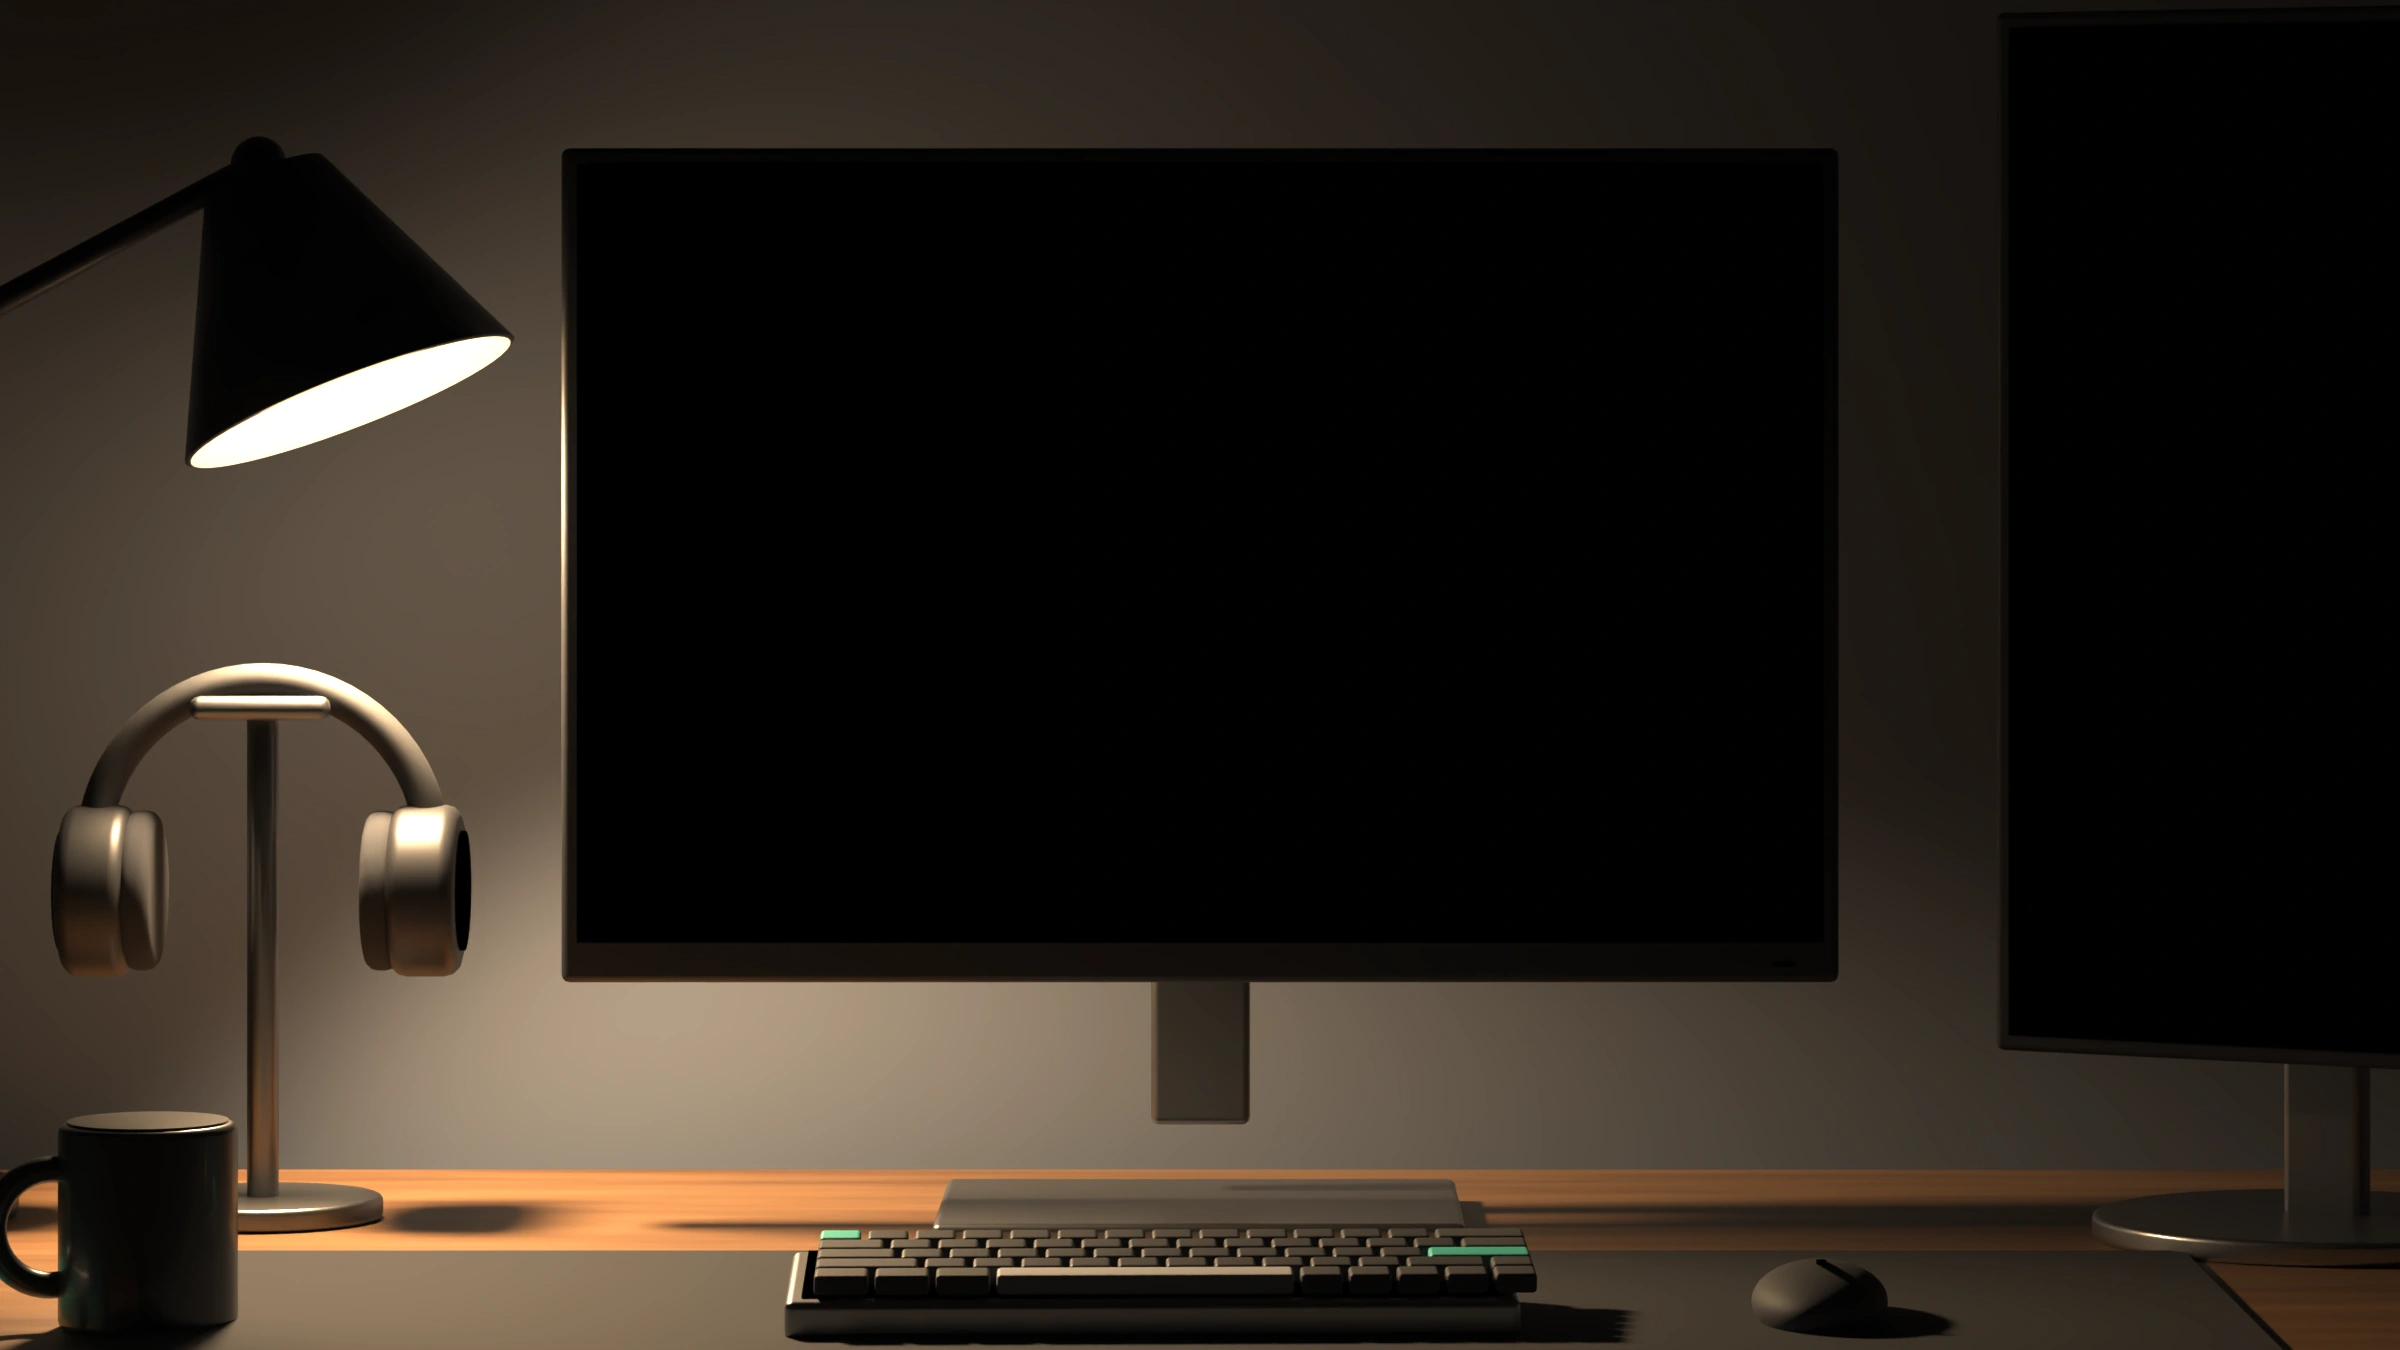
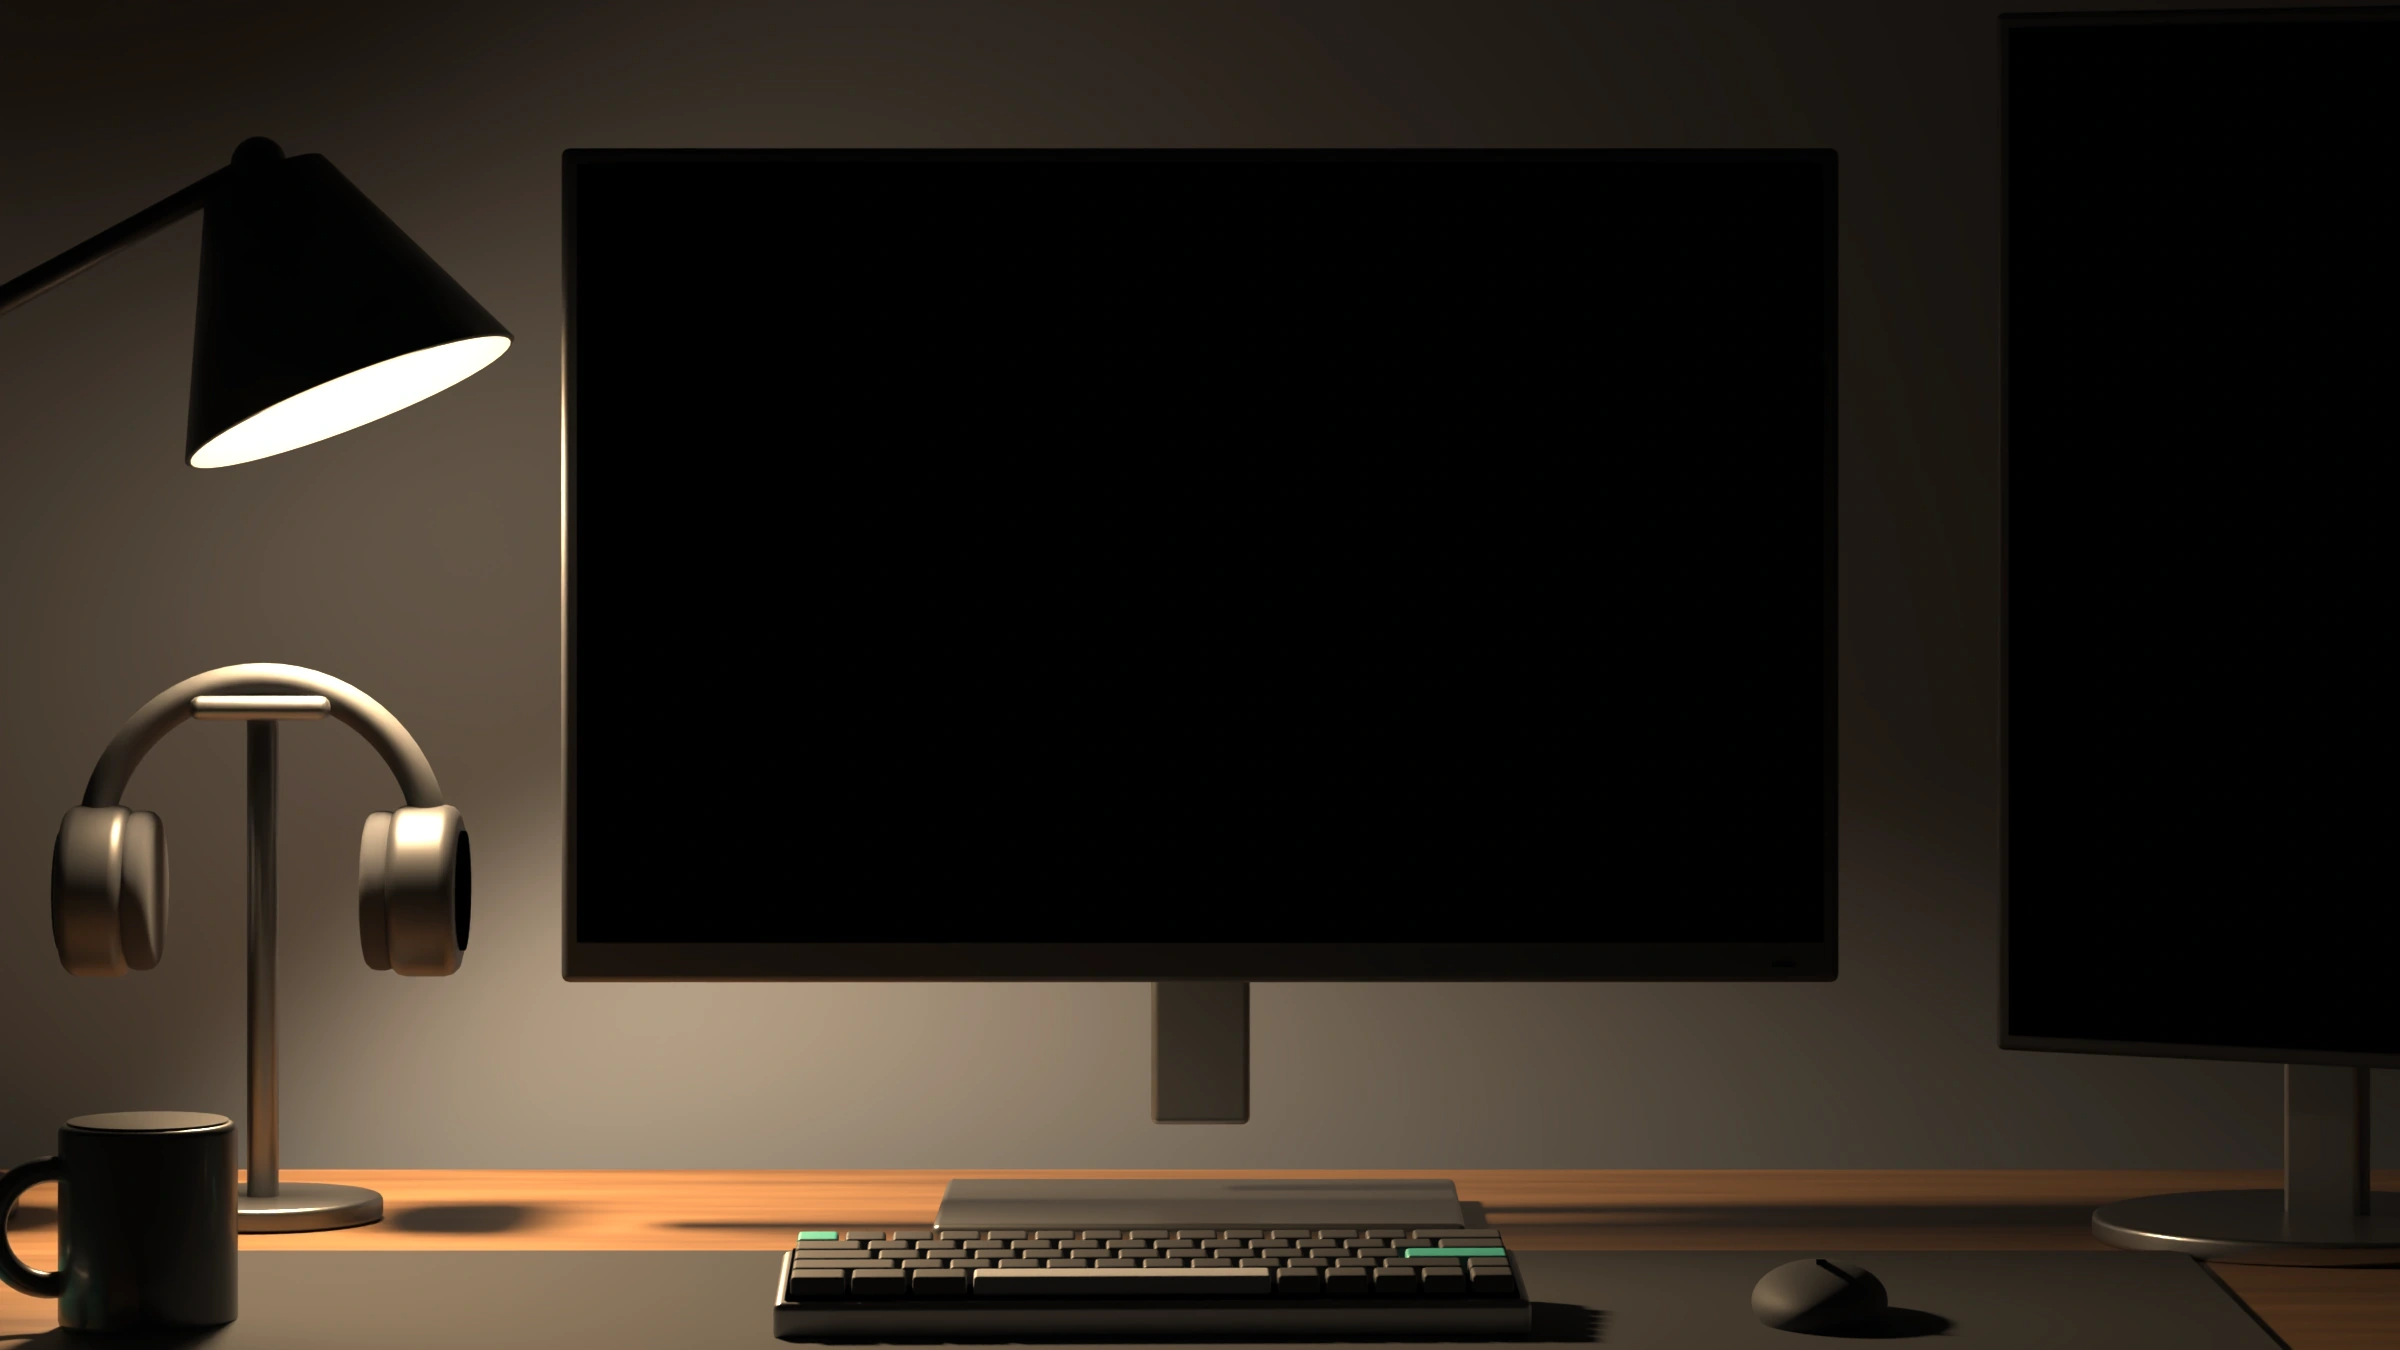
Re-render the keyboard with the keys inside the case
Patch the keyboard region of the wide and close-up textures with a fresh
render of the fixed keyboard, regenerate the poster, and bump the texture
version so browsers refetch.

Claude-Session: https://claude.ai/code/session_01AVQ5KEMSA2z19usuWfnEUJ

Changed region(s): [[0.3125, 0.9022, 0.6562, 0.9956], [0.6562, 0.9644, 0.6875, 0.9956], [0.3438, 0.9956, 0.375, 1.0]]

diff --git a/index.html b/index.html
@@ -22,7 +22,7 @@
         gtag('js', new Date());
         gtag('config', 'G-P056MVQVGM');
     </script>
-    <link rel="preload" as="fetch" href="assets/room/room.json?v=6" crossorigin>
+    <link rel="preload" as="fetch" href="assets/room/room.json?v=7" crossorigin>
     <link rel="stylesheet" href="assets/css/desktop.css?v=17">
     <style>
         :root {
@@ -436,6 +436,6 @@
     <script src="assets/js/terminal.js?v=16"></script>
     <script src="assets/js/desktop.js?v=16"></script>
     <script src="assets/js/kali-tools.js?v=16"></script>
-    <script src="assets/js/room.js?v=17"></script>
+    <script src="assets/js/room.js?v=18"></script>
 </body>
 </html>

diff --git a/assets/js/room.js b/assets/js/room.js
@@ -133,7 +133,7 @@
     // ------------------------------------------------------------------
     var inline = window.__ROOM__ || null;
     var BASE = "assets/room/";
-    var VERSION = "6";   // bump when the textures are re-rendered, so browsers refetch them
+    var VERSION = "7";   // bump when the textures are re-rendered, so browsers refetch them
     var meta = null;
     var loaded = { wide: false, close: false };
     var maxTex = gl.getParameter(gl.MAX_TEXTURE_SIZE);
